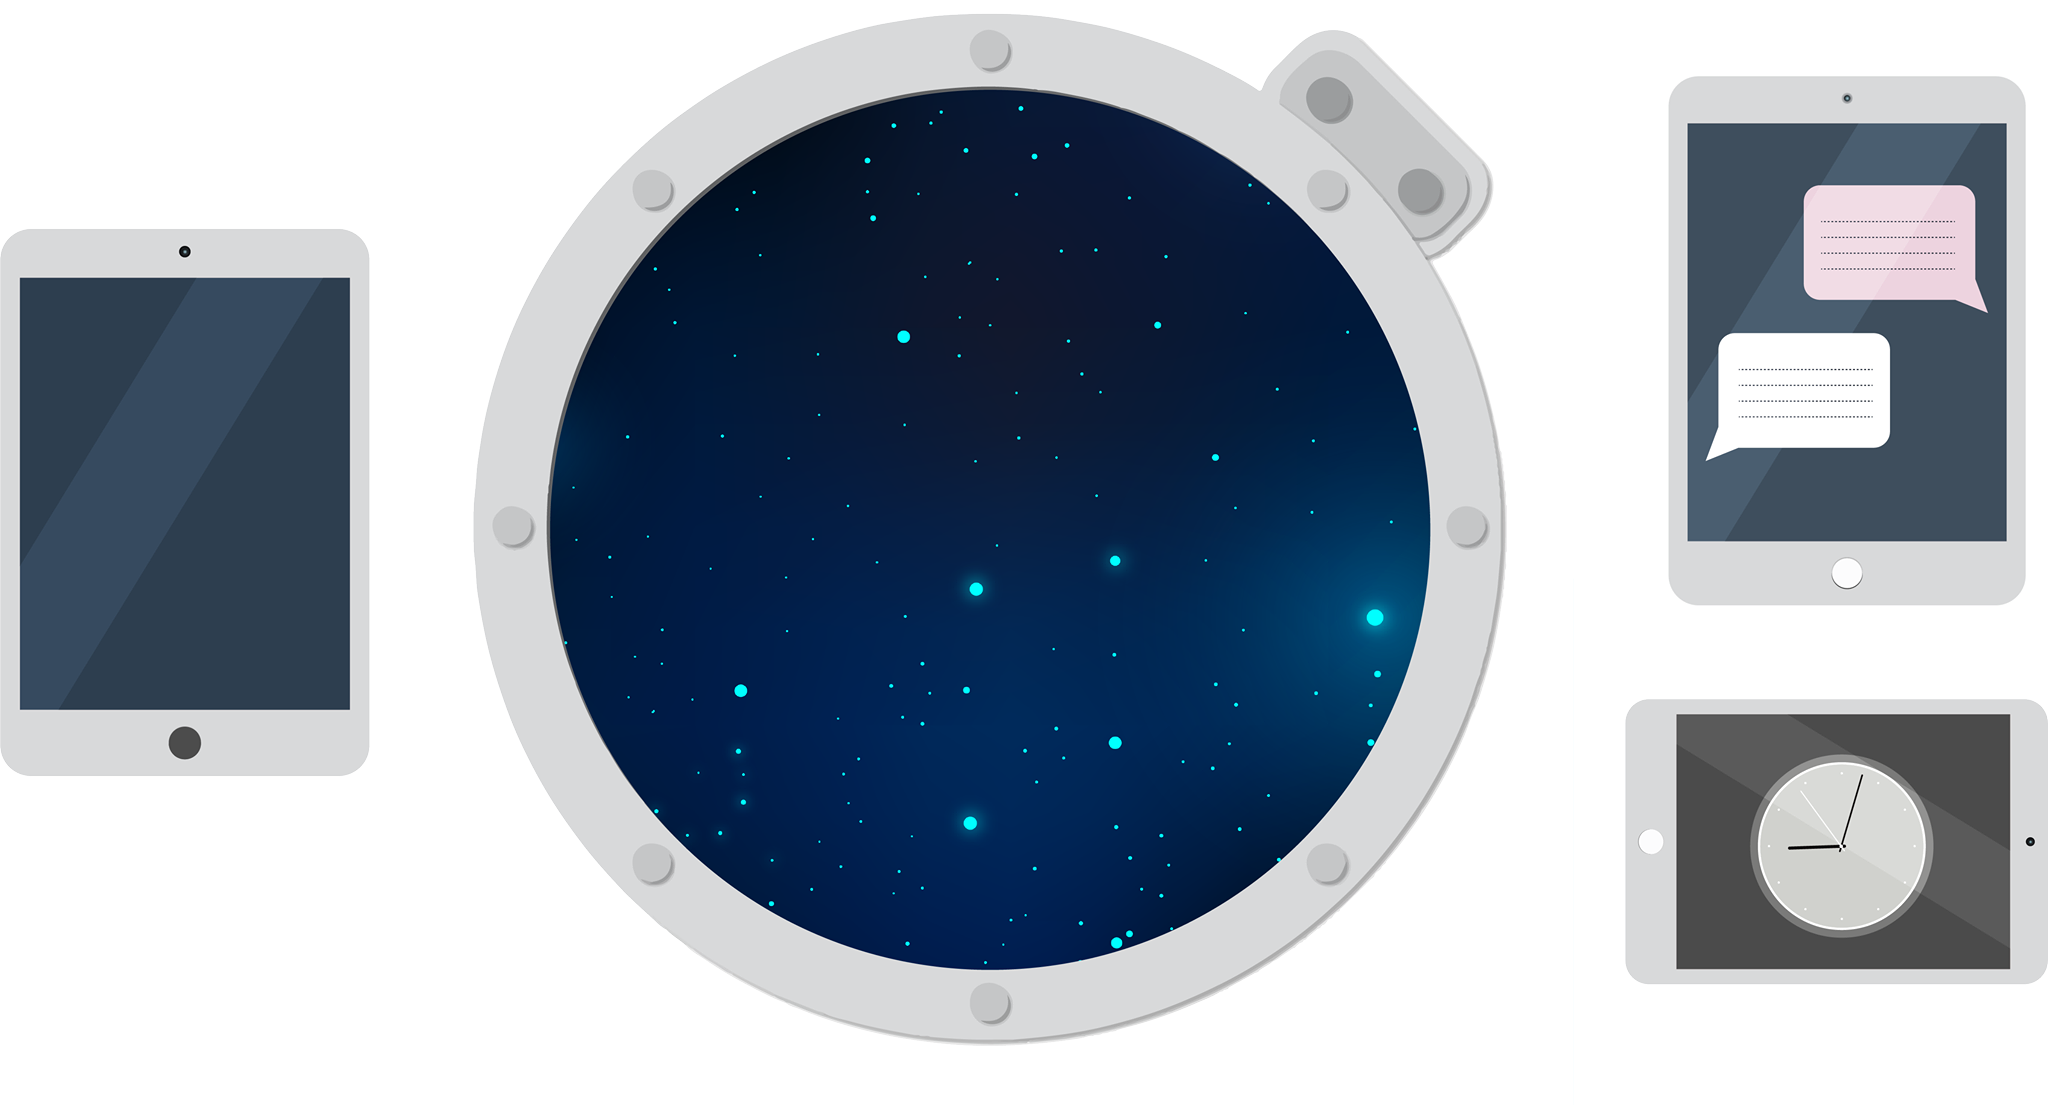
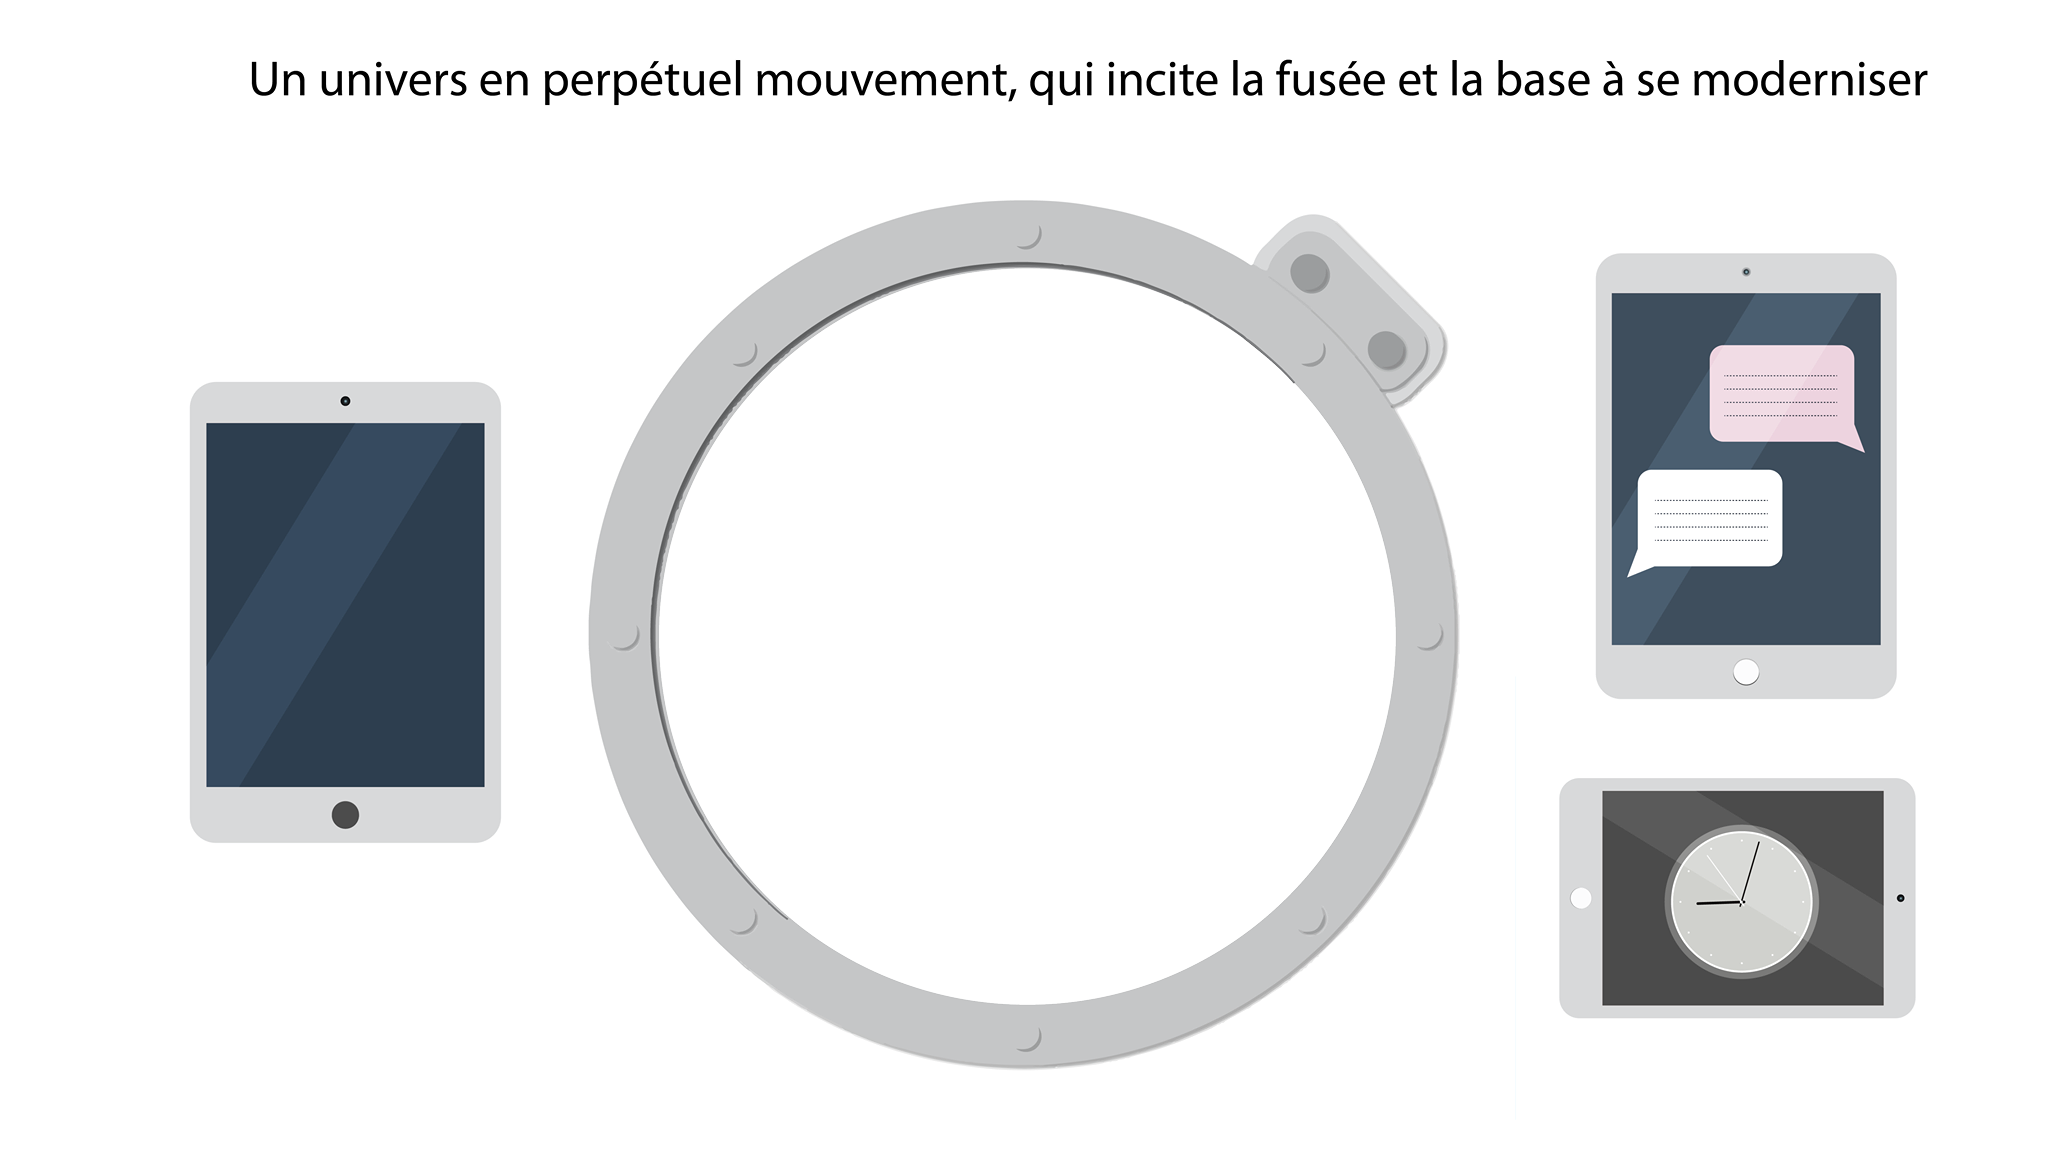
alien

diff --git a/styles.css b/styles.css
@@ -502,47 +502,29 @@ section#one-s19 {
 
 /* SLIDE 20 */
 
-.fintechs-s20 {
-  position: absolute;
-  color: white;
-  margin-left: 47vw;
-  margin-top: 20vh;
-}
-
 section#one-s20 {
-  background-image: url("img/slide20/background-slide20.png");
-  background-size: 80%;
-  background-position: 50% 110%;
+  background-image: url("img/slide20/space-bg.png");
+  background-size: cover;
   background-repeat: no-repeat;
-  background-color: white;
 }
 
 .espace-slide20 {
-  width: 600px;
-  z-index: 1; 
+  height: 100vh;
+  width: 100vw;
 }
 
 #alien1-s20 {
-  margin-left: 22vw;
-  margin-top: 180px;
-  width: 20%;
-}
-
-#planete1-s20{
-  animation: rotate 60s infinite;
-  margin-left: 300px;
-}
-
-#planete2-s20{
-  margin-left: 15px;
-  margin-top: 300px;
-  padding-bottom: 100px;
-  margin-left: 50px;
-  animation: rotate 60s infinite;
+  position: absolute;
+  margin-top: -82vh;
+  margin-left: -5vw;
+  width: 40%;
 }
 
 #alien2-s20 {
-  margin-right: 200px;
+  position: absolute;
+  width: 5vw;
+  margin-top: -70vh;
+  margin-left: -15vw;
   animation: rotate_g 10s infinite;
 }
 

diff --git a/index.html b/index.html
@@ -198,14 +198,11 @@
       animation : alien + planètes en fond -->
 
   <section id="one-s20">
+  <img src="img/slide20/background-slide20.png" class="espace-slide20">
       <p id= "texte-s20">Un univers en perpétuel mouvement qui incite la fusée et la base à se moderniser</p>
-      <p class="fintechs-s20"> Fintechs </p>
-      <ul>
-        <li><img src="img/slide20/alientete-slide20.png" id="alien1-s20"></li>
-        <li><img src="img/slide20/planete1-slide20.png" id="planete1-s20"></li>
-        <li><img src="img/slide20/alien2-slide20.png" id="alien2-s20"></li>
-        <li><img src="img/slide20/planete2-slide20.png" id="planete2-s20"></li>
-      </ul>
+
+      <img src="img/slide20/alientete-slide20.png" id="alien1-s20">
+      <img src="img/slide20/alien2-slide20.png" id="alien2-s20">
   </section>
 
   <section id="two-s20"> 

diff --git a/js/main.js b/js/main.js
@@ -573,7 +573,7 @@ var Aterrisage = new ScrollMagic.Scene({
 
 var controller20alien1 = new ScrollMagic.Controller();
 
-var FadePlanet20alien1 = TweenLite.fromTo("#alien1-s20", 1, {x:0, opacity: 0}, {opacity:0.95, ease:Power1.easeInOut})
+var FadePlanet20alien1 = TweenLite.fromTo("#alien1-s20", 1, {x:0, opacity: 0}, {opacity: 0.76, ease:Power1.easeInOut})
 
 var Fade20alien1 = new ScrollMagic.Scene({
     triggerElement: "#one-s20",
